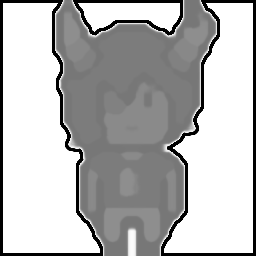
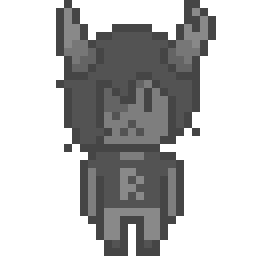
BIRD

diff --git a/scripts/stored_raw_sets.js b/scripts/stored_raw_sets.js
@@ -1,6 +1,6 @@
 const createStartingDecks = () => {
   const ret = [];
-  const jsonArray = [all_hallows_eve, lomat];
+  const jsonArray = [all_hallows_eve, lomat, TROGDAZORG];
   for (let json of jsonArray) {
     const deck = new CardSet();
     deck.syncToJSON(json);
@@ -238,6 +238,94 @@ const lomat = {
     "Get Buff": "2",
     "Drink Honey Soda!": "2",
     "Dread Rises": "2"
+  },
+  "costStatValue": 0
+}
+
+
+const TROGDAZORG = {
+  "title": "TROGDAZORG THE SUPREME",
+  "description": "Ten versions of TROGDAZORG THE SUPREME were sacrificed by the guests of Lavinraca to make the Harvest. \n\nAll failed to make connections to the others who wandered the corn maze. \n\nAll focused on their own selfish desires for candy and costumes.\n\nCan the Harvest find Motivation through them?\n\nShould they?",
+  "cards": [
+    {
+      "title": "Candy Victory",
+      "text": "TROGDAZORG THE SUPREME has collected so much candy they can finally rest, the sugar high fading into a sugar crash, and sleep finally coming among the corn.",
+      "costStatName": "Bite",
+      "singleUse": true,
+      "autoPlay": false,
+      "costStatValue": 10,
+      "bgAbsoluteSrc": "http://lavinraca.eyedolgames.com/TheHarvestGames/images/Year1/candyvictory.png",
+      "resultStatName": "Victory",
+      "resultChangeValue": 1
+    },
+    {
+      "title": "Burnination",
+      "text": "TROGDAZORG THE SUPREME threatens to burninate the countryside and the peasants give them candy to placate them.",
+      "costStatName": "",
+      "singleUse": false,
+      "autoPlay": false,
+      "costStatValue": 0,
+      "bgAbsoluteSrc": "http://lavinraca.eyedolgames.com/TheHarvestGames/images/Year1/burninate.gif",
+      "resultStatName": "Bite",
+      "resultChangeValue": 1
+    },
+    {
+      "title": "Dinosaur Victory",
+      "text": "TROGDAZORG THE SUPREME ignores all the haters and finally becomes what they were always meant to be: an actual literal dinosaur.",
+      "costStatName": "Dino",
+      "singleUse": false,
+      "autoPlay": true,
+      "costStatValue": 1,
+      "bgAbsoluteSrc": "http://lavinraca.eyedolgames.com/TheHarvestGames/images/Year1/identity_rawr.gif",
+      "resultStatName": "Victory",
+      "resultChangeValue": 1
+    },
+    {
+      "title": "Gain Identity",
+      "text": "TROGDAZORG THE SUPREME feels so good biting all the candy. They feel almost like a real dinosaur!",
+      "costStatName": "Bite",
+      "singleUse": false,
+      "autoPlay": false,
+      "costStatValue": 2,
+      "bgAbsoluteSrc": "http://lavinraca.eyedolgames.com/TheHarvestGames/images/Year1/roar.gif",
+      "resultStatName": "Identity",
+      "resultChangeValue": 1
+    },
+    {
+      "title": "Roar Time",
+      "text": "TROGDAZORG THE SUPREME roars and roars fueled by how much of a dinosaur they feel!",
+      "costStatName": "Identity",
+      "singleUse": false,
+      "autoPlay": false,
+      "costStatValue": 2,
+      "bgAbsoluteSrc": "http://lavinraca.eyedolgames.com/TheHarvestGames/images/Year1/roar.gif",
+      "resultStatName": "Roar",
+      "resultChangeValue": 1
+    },
+    {
+      "title": "Dinosaur Time",
+      "text": "TROGDAZORG THE SUPREME shouts SWEET DINOSAUR FACTS at the top of their lungs, fueled by all the roaring they're doing!",
+      "costStatName": "Roar",
+      "singleUse": false,
+      "autoPlay": false,
+      "costStatValue": 2,
+      "bgAbsoluteSrc": "http://lavinraca.eyedolgames.com/TheHarvestGames/images/Year1/roar.gif",
+      "resultStatName": "Dino",
+      "resultChangeValue": 1
+    }
+  ],
+  "hueRotate": "359",
+  "brightness": "2.1",
+  "saturation": "4",
+  "contrast": "3",
+  "startingDeck": {
+    "Candy Victory": "1",
+    "Burnination": "5",
+    "Identity Victory": "1",
+    "Gain Identity": "3",
+    "Roar Time": "2",
+    "Dinosaur Time": "1",
+    "Dinosaur Victory": "1"
   },
   "costStatValue": 0
 }

diff --git a/secrets/DEAD.js b/secrets/DEAD.js
@@ -28,3 +28,62 @@ const doDEAD = () => {
 }
 
 doDEAD();
+
+
+/*
+Q:... If the Eight Divines are the Harvest's rivals, does that mean the town of Lavinraca is inside the Echidna? 
+
+A: nope and neither is the harvest
+gods dont have to be within their universe
+peewee is the only one who went in
+but camellia, the Cultist who was sacrificed (among others) to make the harvest IS from the echidna, she had wandered out to find the corn maze
+and since the alt timeline version of her that wasn't sacrificed went BACK
+now the harvest is worshipped by a small cult inside the echidna
+as well as in lavinraca
+dual citizenship
+the cult of the harvest retroactively has always been the cult of the nameless one  who has been "hunting" the eye killer
+it is, incidentally, extremely weird for both the harvest and The Cultist Camellia to have Camellia worship the Harvest
+The Harvest established an identity outside her constitute parts last year
+but that doesn't mean seeing a human who makes up the bulk of your memories worship you isn't weird
+meanwhile camellia is both "gods are definitionally perfect and superior" and also "i am the best possible version of myself, much better than the eye killer or the Innocent"
+
+
+tldr: my branch of zampanio, the echidna , is filled with refuges (or kidnapping victims occasionally) from other universes/settings 
+and refugees/kidnapping victims frequently leave the echidna to go be in other universes
+this does not free them from being in the echidna tho, because they're considered "part of the setting" and thus they simply bifurcate
+peewee in arm1 vs peewee in arm2, etc
+
+the arms are ways to show that even within the echidna , time is not a real thing, and because of that, there isn't an "alpha" timeline...just... endless variations of the same thing
+the echidna is a single universe but even that isn't as helpful to know as you might think
+there is only ever one wanda
+and only ever one intern
+per universe
+when the echidna is destroyed wanda simply has it birth a new one (the mother of monsters) which contains a new, single intern
+each arm within the echidna has the same intern in it, Witnessing them
+while wanda, with all her ominscience, simply refuses to See anything and moves forward always blind
+
+
+
+i think theres something just horseshoes in general
+that i finished the void land
+and then farragnarok disappeared into the void
+its ripples effecting everything after
+but unseen
+the bard of light , volour, made it so the idea of Truth is inherently meaningless, EVERYTHING is true, EVERYTHING is seen so nothing matters
+the thief of time stole the idea of time from the echidna while also giving it a stolen approximation of it with the arms
+etc etc
+
+
+hell even hagala having no class is sorta in a mirror of wanda being the LORD of hagala's aspect
+
+literally no room for hagala
+
+and of course, nidhogg directly effects the echidna, causing the  "no one can die within truth's horrdors" effect, i.e. Zawhei's power is active in killing death
+
+meanwhile i barely even have to talk about despap, zampanio is ALL about teaching you how to hack/create your own realities
+the grace of rage is threaded through it all 
+
+be the change you want to see in the world, create your own branch, reject my authority and tear me down and replace it with your own regardless of the consequences 
+
+http://farragofiction.com/PaldemicSim/bio.html?target=TheMan
+*/

diff --git a/secrets/BIRD.js b/secrets/BIRD.js
@@ -1,0 +1,39 @@
+/*
+A relic can mutate the global name space (including the game)
+however it likes. 
+
+On refresh, a relic will no longer be in effect.
+
+A relic should add itself to localStorage so it can be rendered as a book
+you can click any time in order to re-apply it (along with the popup)
+
+these relics won't be able to run outside the game, cuz it assumes certain other files loaded
+*/
+const doBird = () => {
+    displayCardAndDeckEdits(); //the witch of blood lets you see how everything is connected and twist them to your purpose
+    const parent = document.querySelector("body");
+    const contentEle = createElementWithClassAndParent("div", parent, 'card-popup');
+    const image = createElementWithClassAndParent("img", contentEle, 'big-relic-image');
+    image.src = "images/Relics/STATUE_OF_THEANGELOFISOLATIONANDROYALTY_GUIDE_OFhUNTERS.png";
+    const explanation = createElementWithClassAndParent("div", contentEle, 'sub-section relic-explaination');
+    explanation.innerHTML = `You got the BIRD relic! 
+    <br><br>It's a statue of one of the EIGHT DIVINES!
+    <br><Br>The Angel of Isolation and Royalty allows you to view the card and deck builder!
+    <br><br>It will be applied until you refresh the page! Don't worry though, you can re-apply it any time from your bookshelf.`;
+
+    popup("Your stats spelled 'B-I-R-D'!", contentEle)
+
+    addRelicToBar("BIRD", image.src);
+
+}
+
+doBird();
+
+/*
+our witch of blood was always absent from her session
+only showing up after it all was over
+and here we have our two bound friends/lovers of wodin and the intern never able to reach each other 
+its always been connected even when it wasn't
+
+similarly the dinosaur boy never really connected with anyone
+*/

diff --git a/index.js b/index.js
@@ -49,7 +49,36 @@ window.onload = () => {
     window.onclick = () => {
         click.play();
     }
+    handleURLParams();
 
+}
+
+const displayCardAndDeckEdits = () => {
+    const contents = document.querySelector("#contents");
+    const editButton = createElementWithClassAndParent("button", contents);
+    editButton.innerText = "Create A Card";
+    editButton.onclick = () => {
+        contents.innerHTML = "";
+        const testScene = new Card();
+        testScene.renderEditForm(contents);
+    }
+
+    const decjButton = createElementWithClassAndParent("button", contents);
+    decjButton.innerText = "Create A Deck";
+    decjButton.onclick = () => {
+        contents.innerHTML = "";
+        const testDeck = new CardSet();
+        testDeck.renderEditForm(contents);
+    }
+}
+
+const handleURLParams = () => {
+    const queryString = window.location.search;
+    const urlParams = new URLSearchParams(queryString);
+    let edit = urlParams.get('editMode');
+    if (edit) {
+        displayCardAndDeckEdits();
+    }
 }
 
 //library books are either DECKS or RELICS
@@ -172,8 +201,8 @@ const renderLibraryCardHeader = (container) => {
     tv.playsinline = true; //so ios doesn't cry
     tv.setAttribute('playsinline', true)
     tv.style.cssText = `    height: 14px;
-    top: 50px;
-    left: 107px;
+    top: 34px;
+    left: 62px;
     z-index: -1;`;
 
     tv.volume = 0.0;

diff --git a/scripts/decks.js b/scripts/decks.js
@@ -36,6 +36,7 @@ i think im ready to get back into this
 */
 
 const getCardWithTitle = (title, cardArray) => {
+  console.log("JR NOTE: trying to get card with title", title)
   return cardArray.find((i) => i.title === title);
 }
 
@@ -94,11 +95,15 @@ class CardSet {
   }
 
   startingDeckToCards = () => {
+    console.log("JR NOTE: this.startingDeck", this.startingDeck)
     const ret = [];
     //for every map in the starting deck, find a card that matches its title and add it the correct amount of times
     for (let category of Object.keys(this.startingDeck)) {
       for (let i = 0; i < this.startingDeck[category]; i++) {
-        ret.push(getCardWithTitle(category, this.cards));
+        const card = getCardWithTitle(category, this.cards);
+        if (card) {
+          ret.push(card);
+        }
       }
     }
     return ret;
@@ -155,6 +160,7 @@ class CardSet {
     const deckContainer = createElementWithClassAndParent("div", parent, 'grid tiny-cards');
 
     const hydratedDeck = this.startingDeckToCards();
+    console.log("JR NOTE: hydratedEck", hydratedDeck)
     for (let card of hydratedDeck) {
       card.renderCard(deckContainer);
     }

diff --git a/doll.css b/doll.css
@@ -447,6 +447,10 @@ video {
 
 }
 
+.shop {
+    position: relative;
+}
+
 
 .shelf {
     display: flex;
